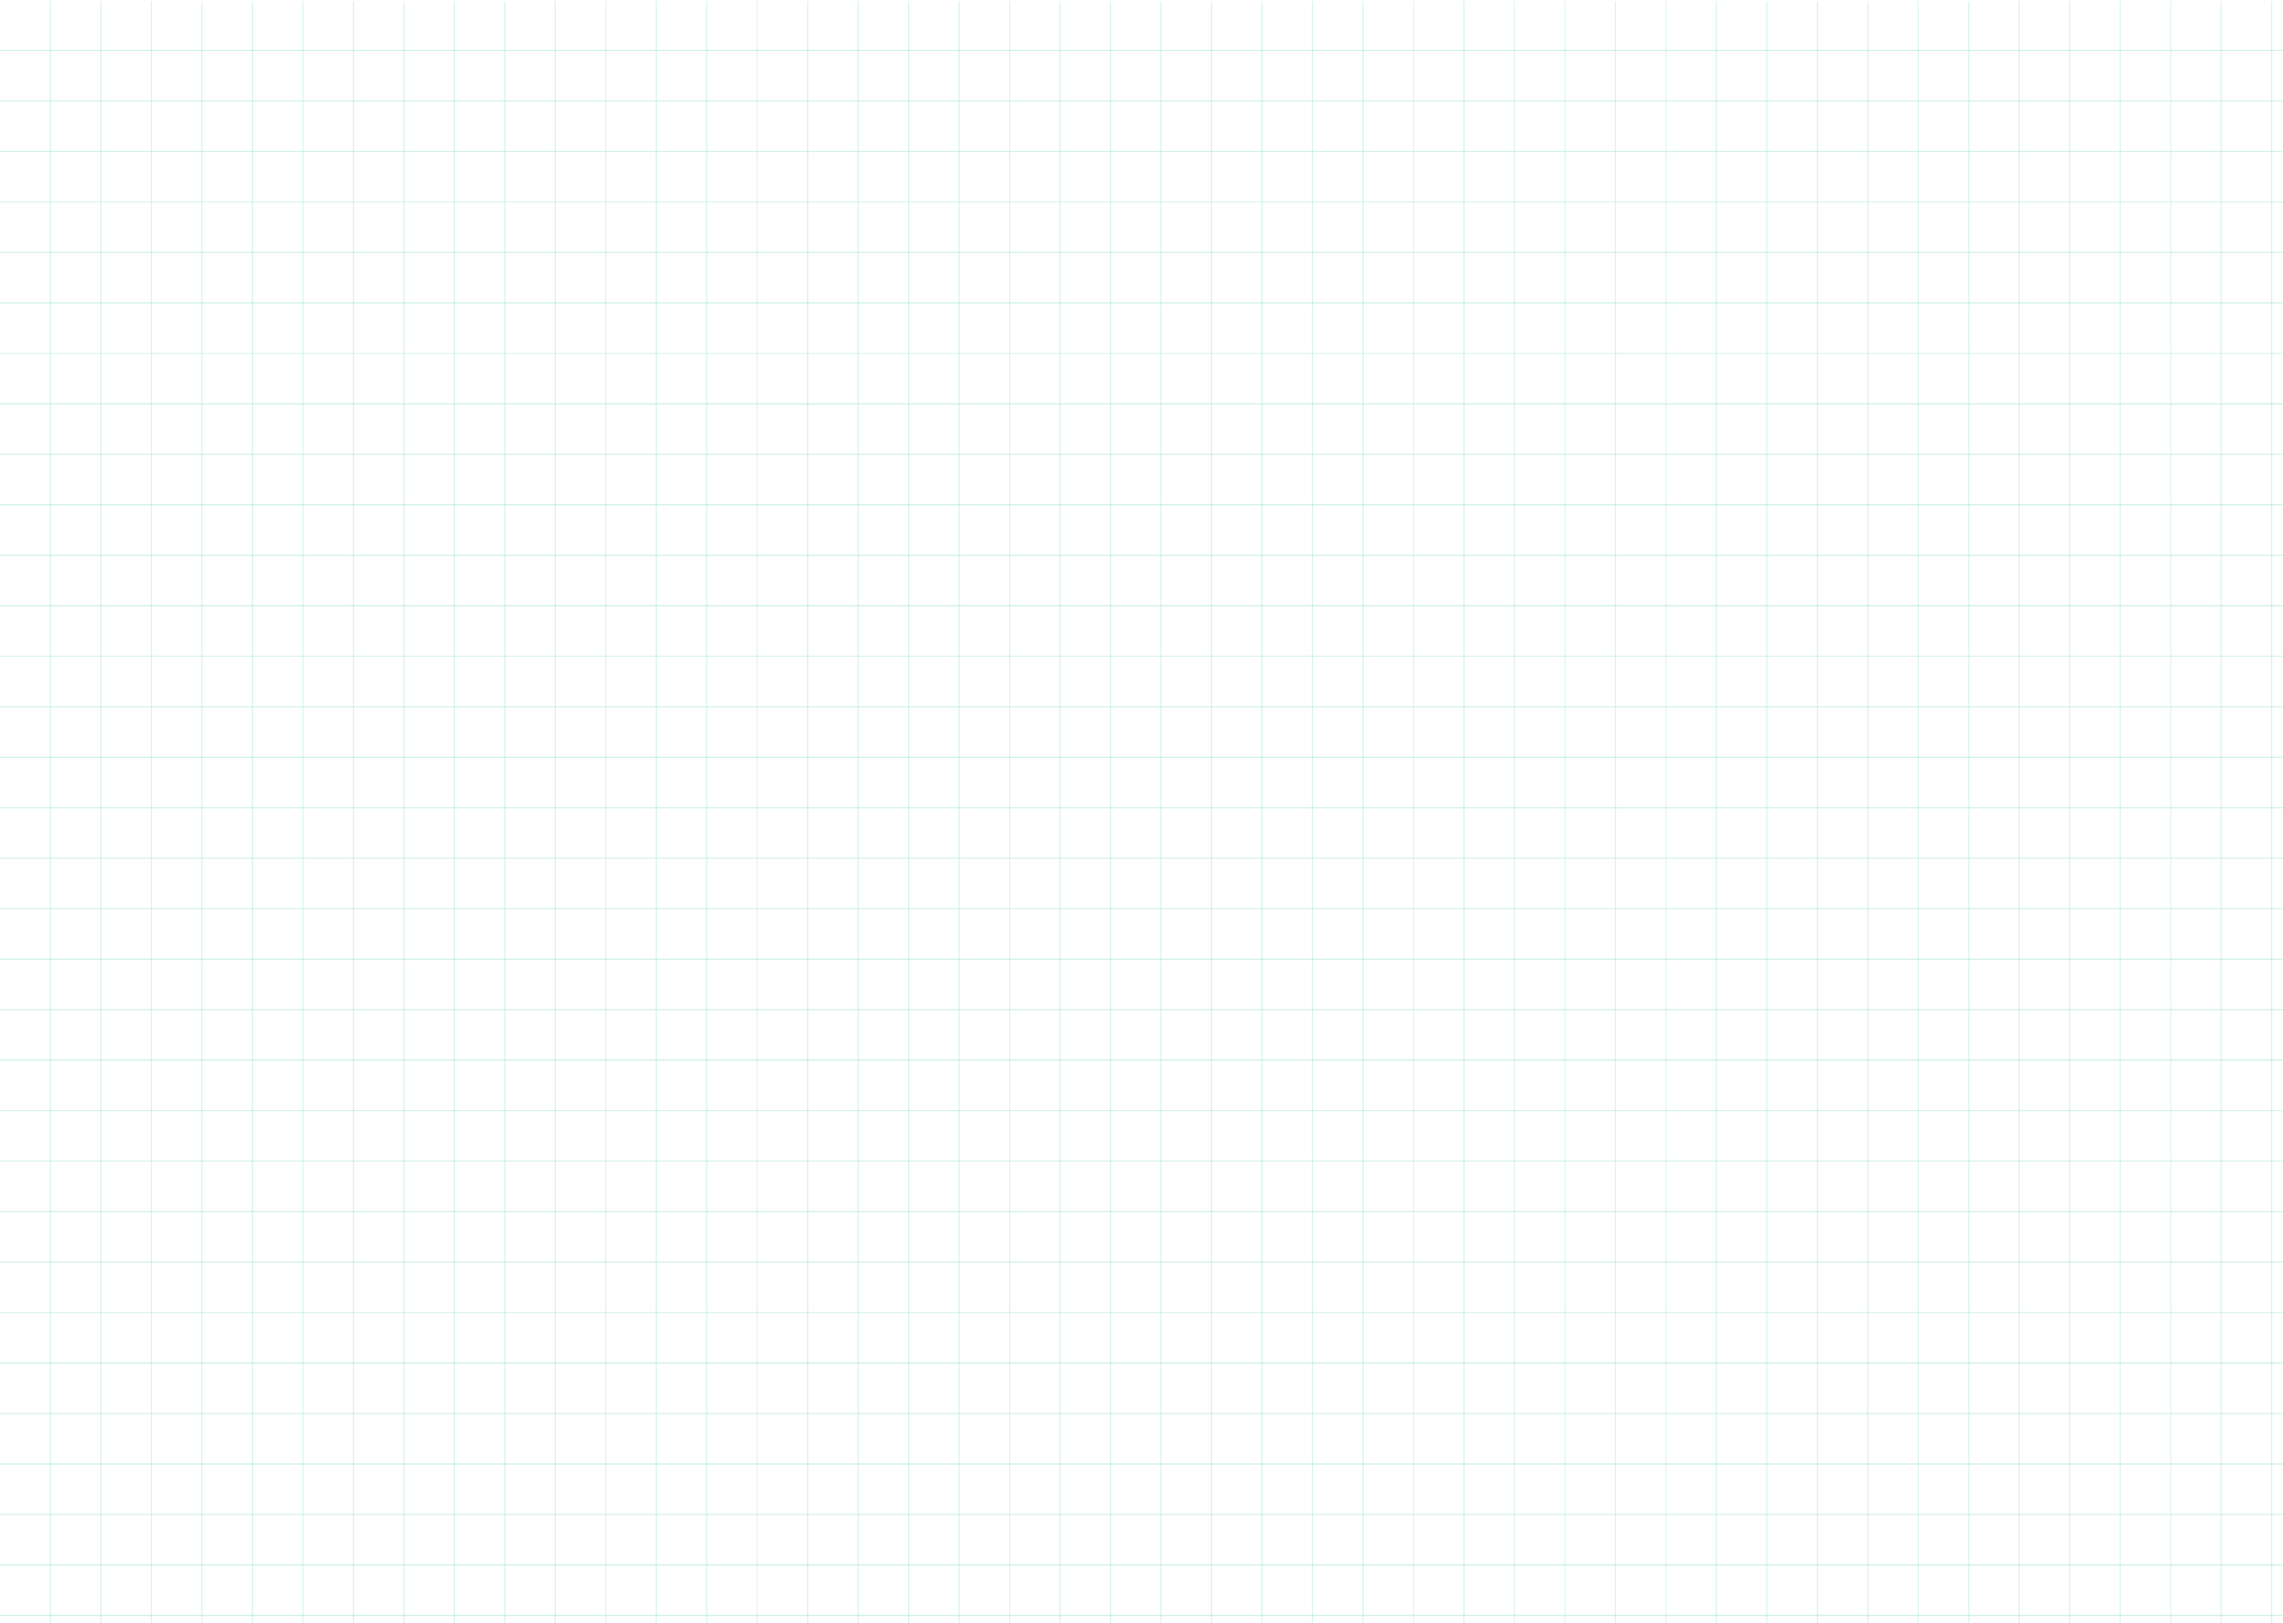
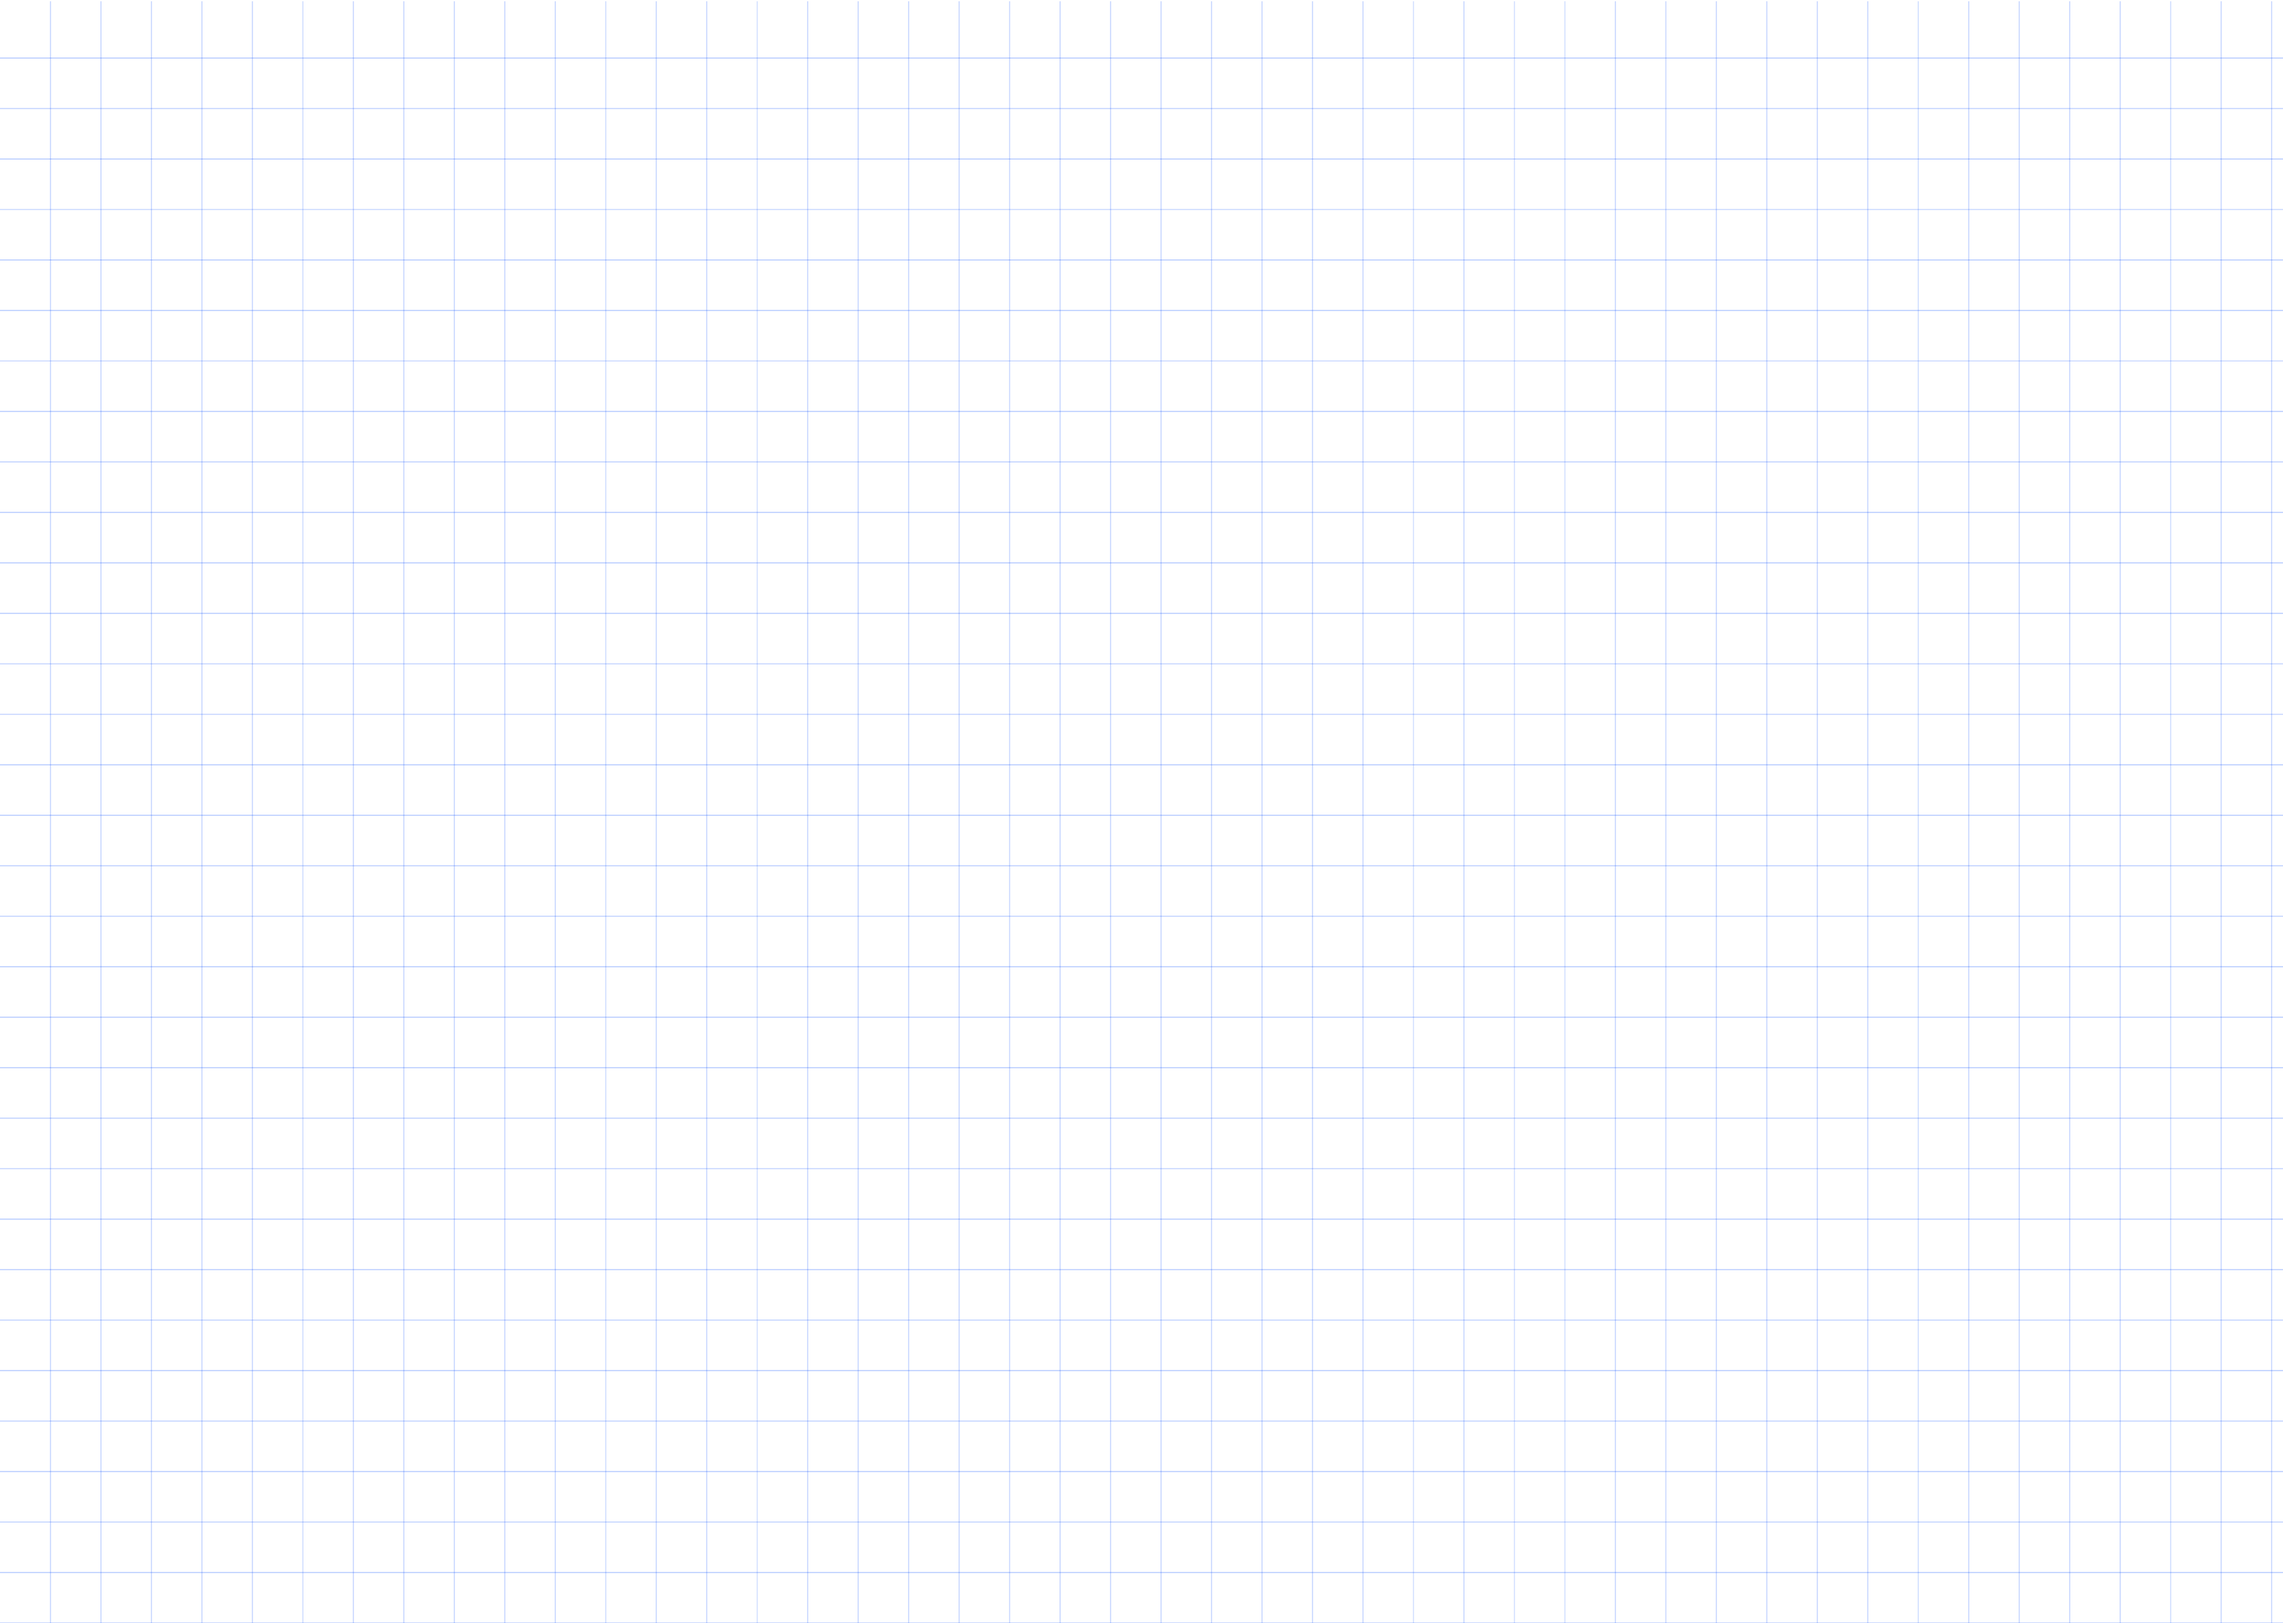
changed grid

Changed region(s): [[0.0, 0.9953, 1.0, 1.0]]

diff --git a/docs/home.css b/docs/home.css
@@ -1,5 +1,5 @@
 html{
-	background-color: #DAF8FF;
+	background-color: white;
 	background-image: url("media/grid.png");
 	background-size: cover;
 	background-repeat: repeat-y;
